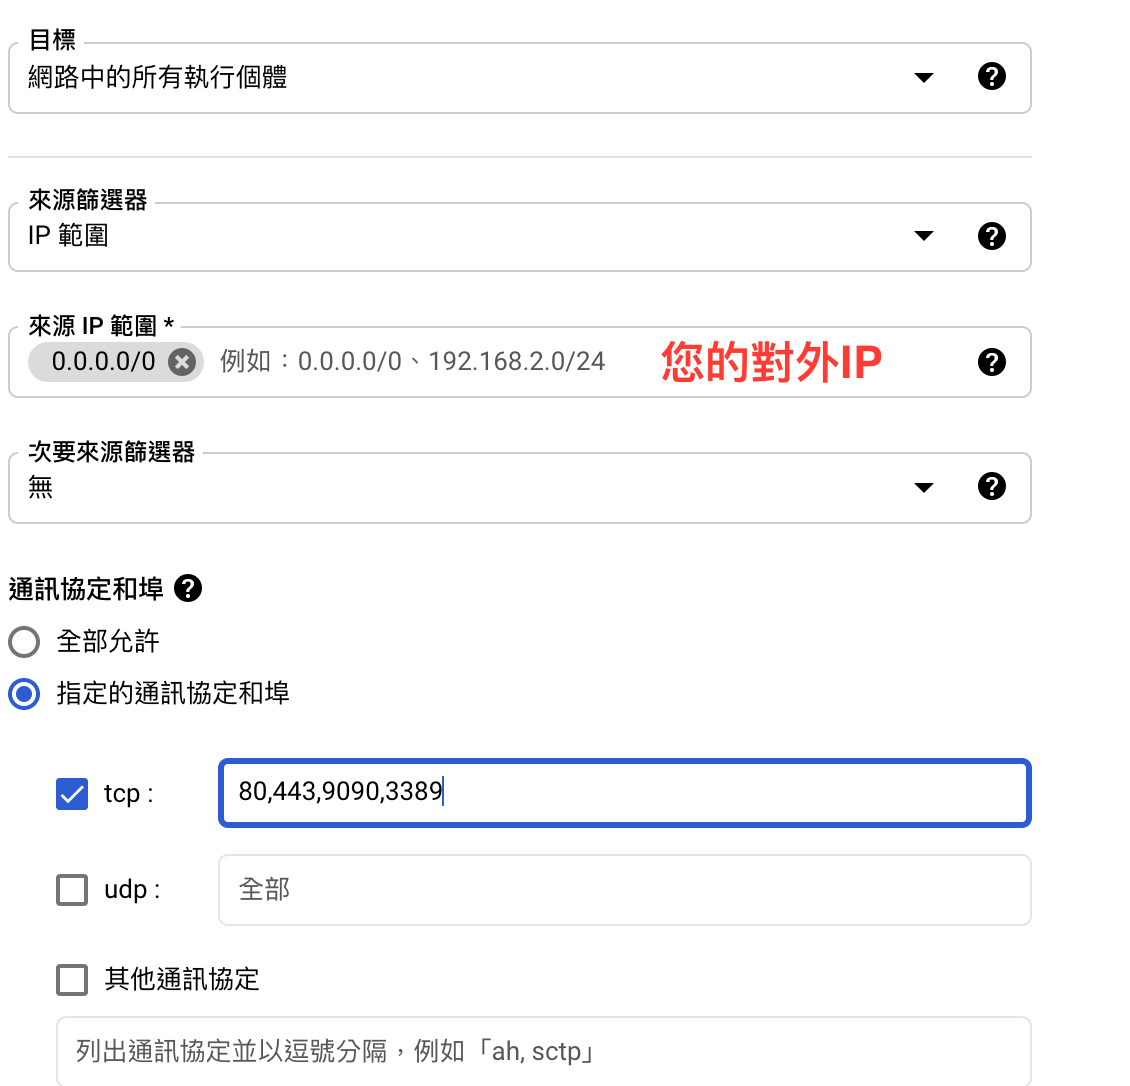
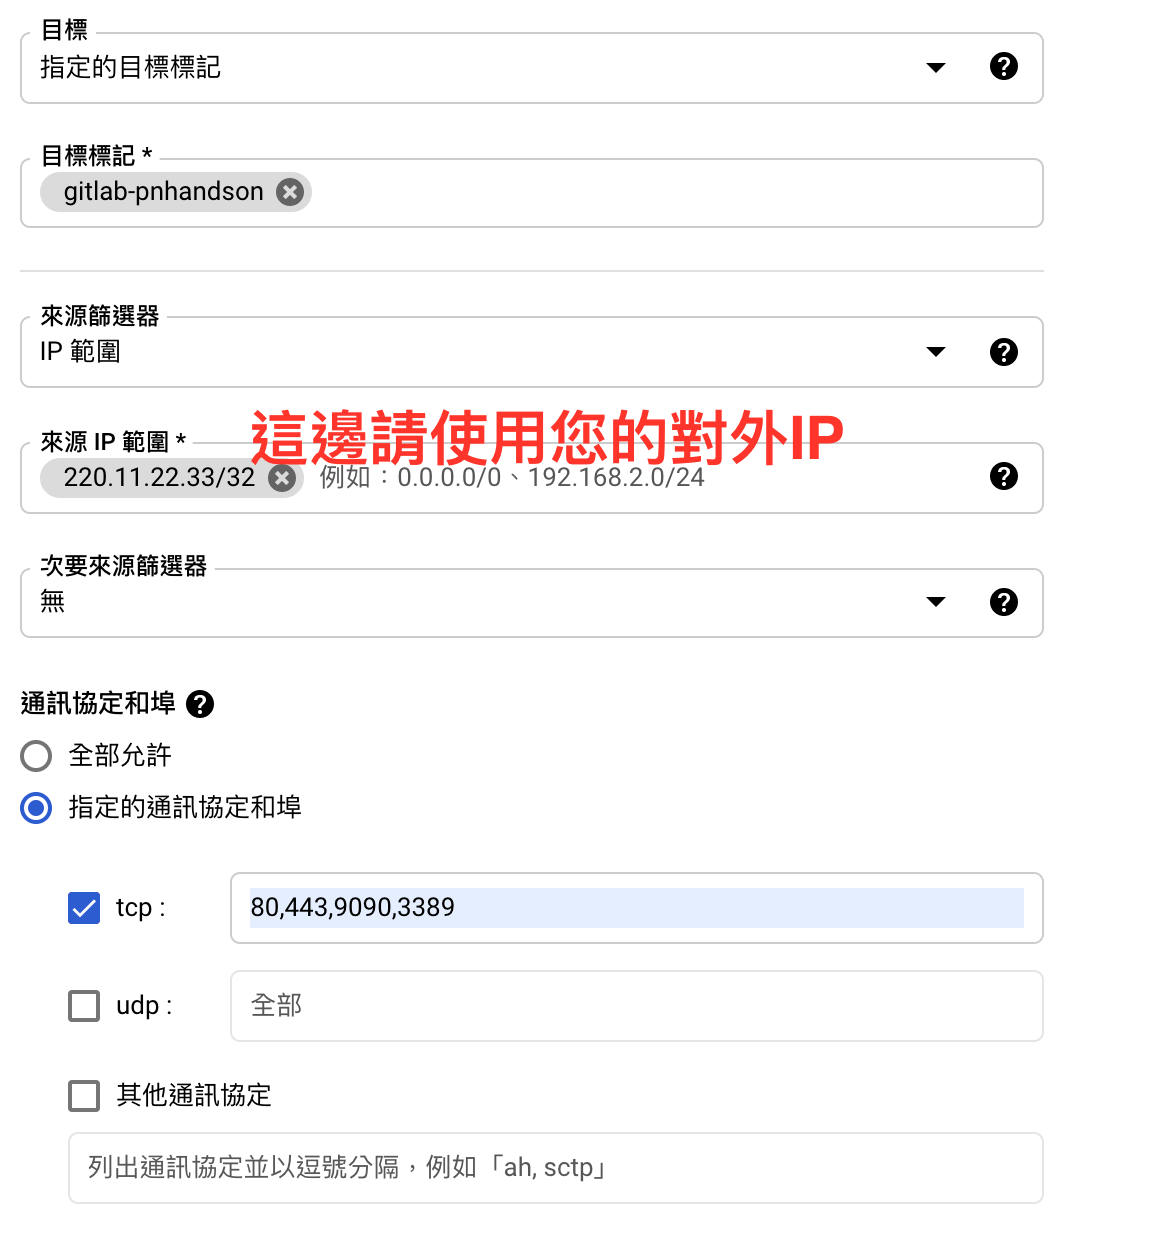
update

diff --git a/README.md b/README.md
@@ -66,10 +66,11 @@ gcloud compute images create gitlab-template-pnhandson \
 
 1. 至防火牆頁面 -> 建立防火牆規則
 
-- 名稱 : `gitlab-pnhandson`
-- 目標 : 網路中的所有執行個體
+- 名稱 : `gitlab-firewall-pnhandson`
+- 目標 : 指定的目標標記
+- 目標標記 : `gitlab-pnhandson`
 - 來源篩選器 : IP範圍
-- 來源IP範圍 : 您的對外IP
+- 來源IP範圍 : 您的對外IP , [可使用myipcheck](https://myip.com.tw/)
 - 通訊協定和埠 : 指定的通訊協定和埠
 - [ ✓ ] tcp: 80,443,9090,3389
 
@@ -137,14 +138,14 @@ gcloud compute addresses delete address-name --region=asia-east1-b
 選擇`gitlab-template-pnhandson`
   
 - 從映像檔建立虛擬機器
-- 名稱: gitlab-pnhandson
+- 名稱: `gitlab-pnhandson`
 - 區域: asia-east1 (台灣) / asia-east1-b
 - 規格:N2 / n2-standard-4 (4個 vCPU ， 16 GB記憶體)
 
 2. 選取網路 -> 網路標記
 
 - 設定剛剛的rule 
-`gitlab-pnhandson`
+`gitlab-firewall-pnhandson`
 
 3. 建立
 
@@ -171,13 +172,26 @@ COCKPIT URL: https://cockpit-34-80-72-130.nip.io:9090
 5. 進入GitLab
 
 - 請由GITLAB URL進入Gitlab
-Login帳密請向貴司管理人員洽詢
+Login帳密
+
+```
+root/ 7QKZfrxBQBip5D4
+```
+
+```
+maintainer：maintainer_user / #rtyhnbvfg
+developer：developer_user / @rtyhnbvfg
+```
 
 ![gitlab.png](images/gitlab.png)
 
 ### Gitlab Troubleshooting
 
-- 如碰到任何異常，需要查詢Runner狀態可由COCKPIT URL進入管理介面
-Login帳密請向貴司管理人員洽詢
+- 如碰到任何異常，需要查詢Windows Runner狀態可由COCKPIT URL進入管理介面
+Login帳密
+
+```
+root / 12qw#$ER
+```
 
 ![cockpit.png](images/cockpit.png)
